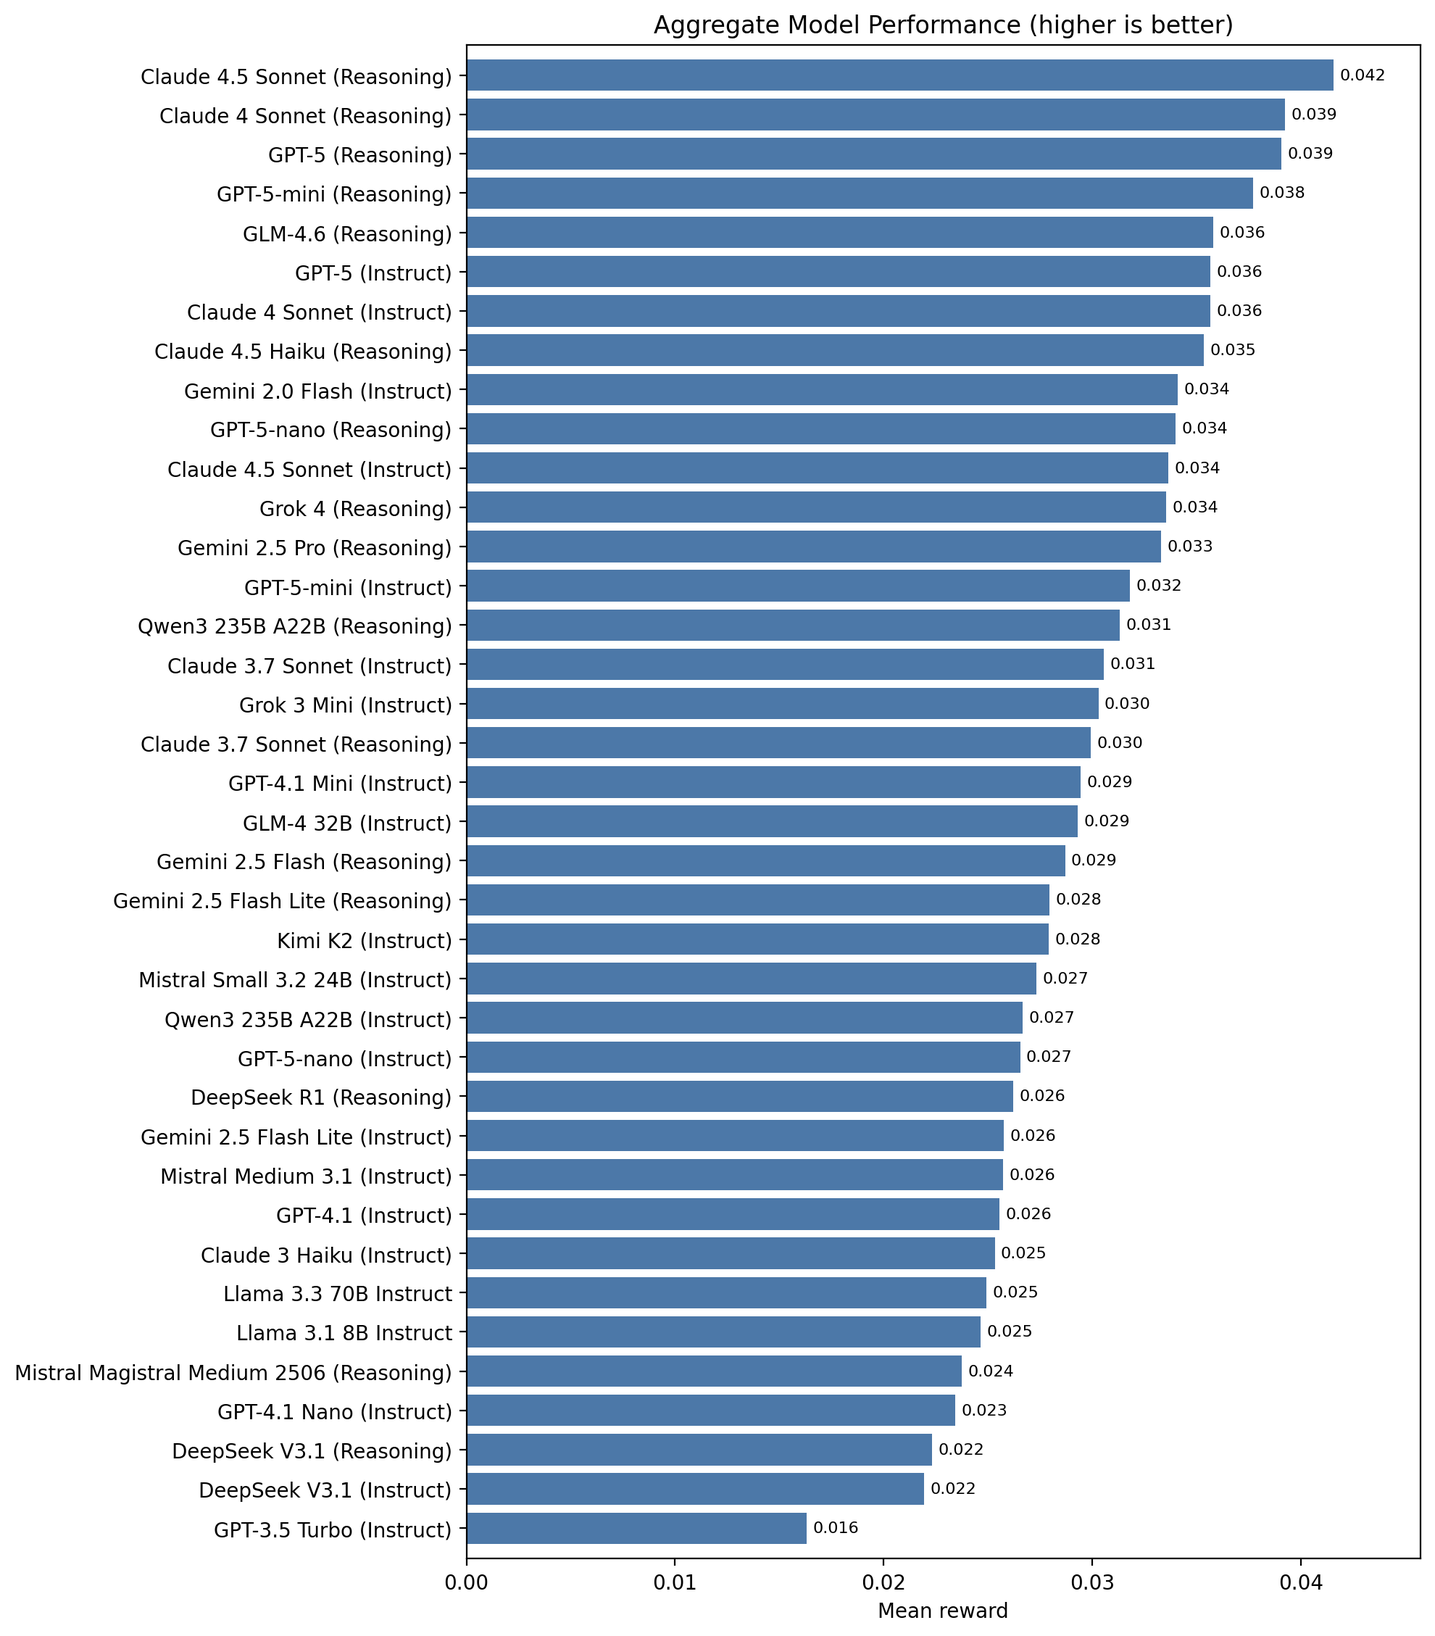
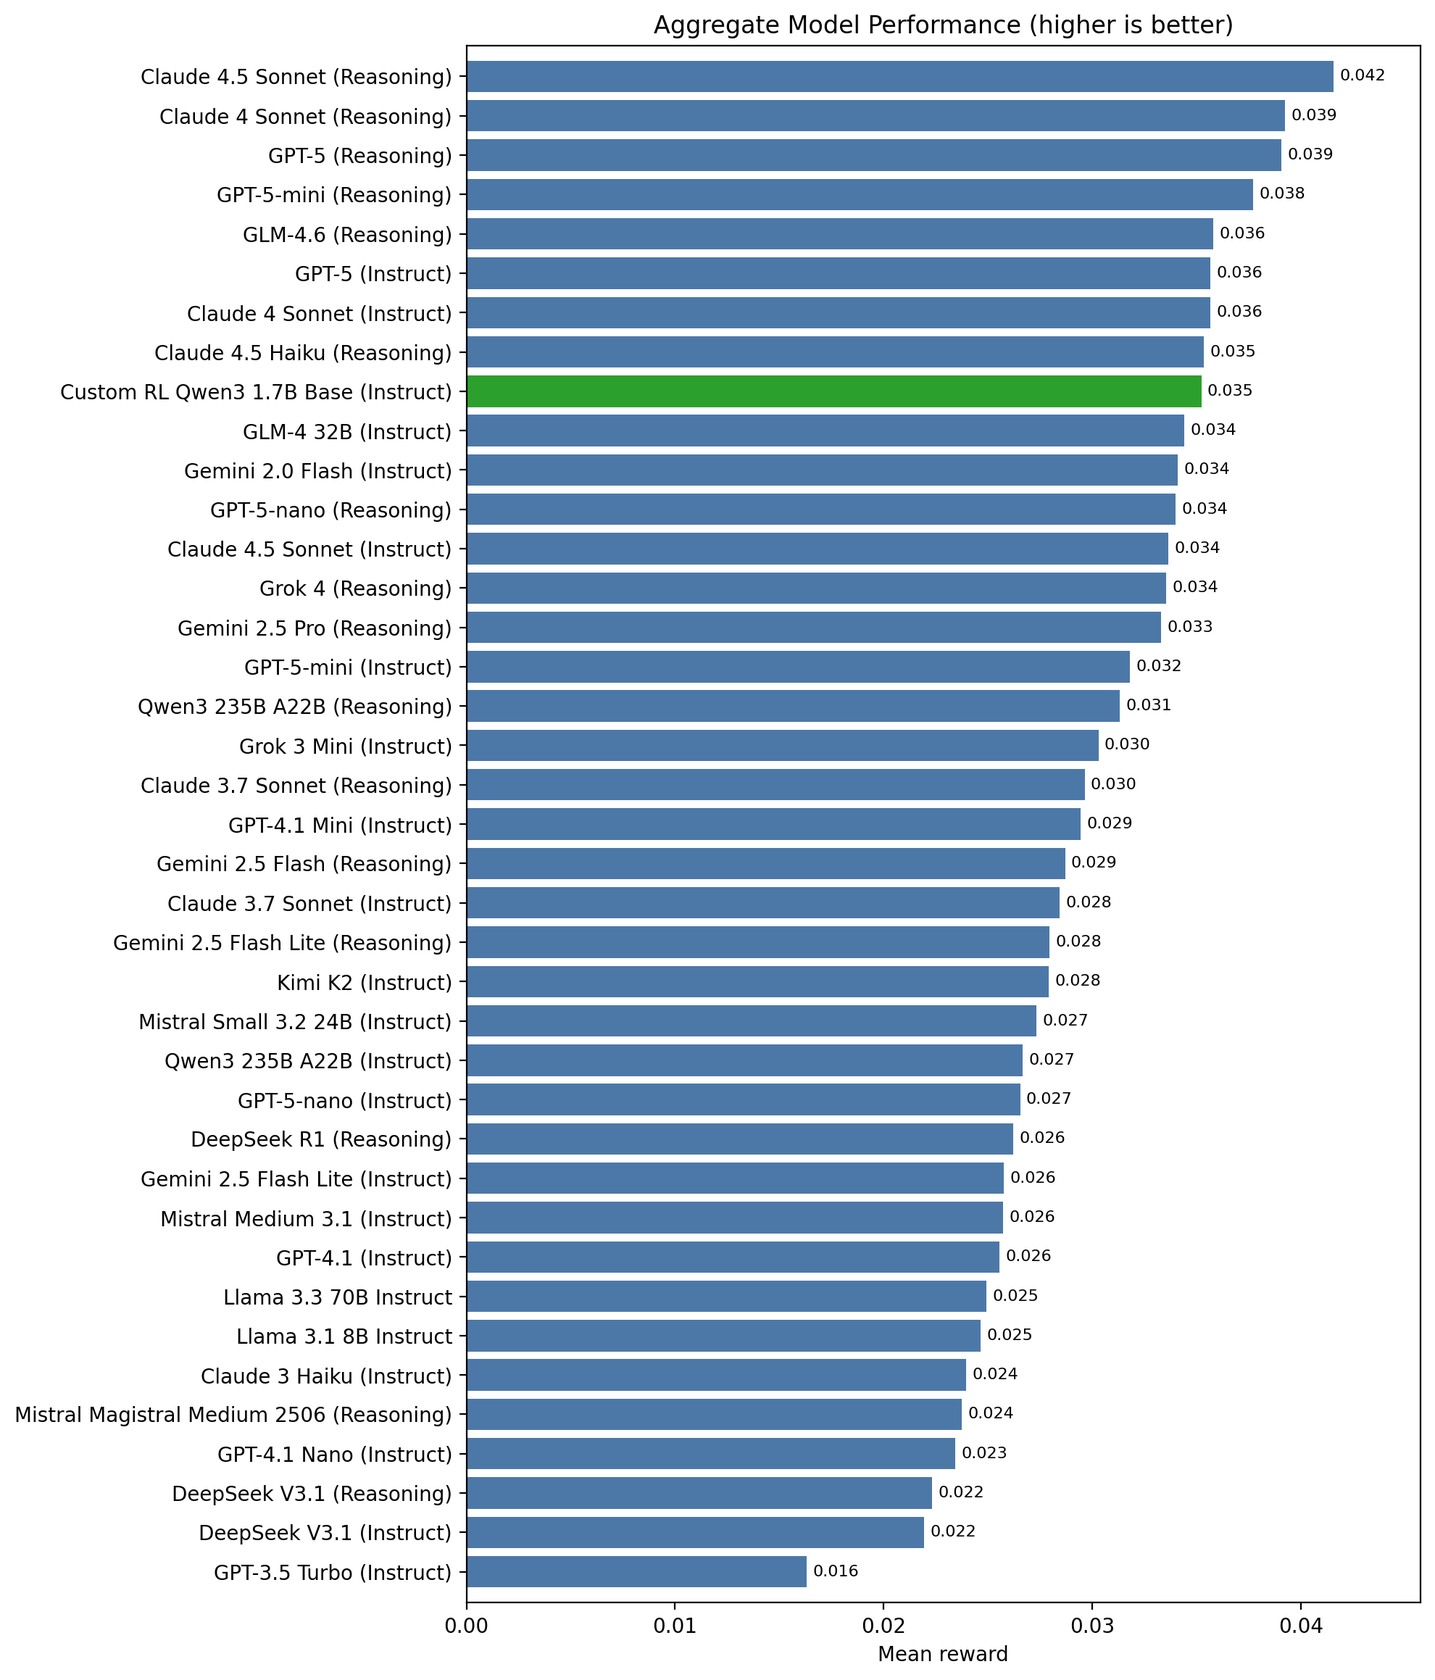
Update results with custom RL'd model

diff --git a/src/benchmark_models.py b/src/benchmark_models.py
@@ -5,15 +5,17 @@ import hashlib
 import statistics
 from collections import defaultdict
 from dataclasses import dataclass
+from functools import cache
 from pathlib import Path
-from typing import Any, Iterator, Literal, cast
+from typing import Iterator, Literal, cast
 
 import httpx
 import matplotlib.pyplot as plt
 import torch
-from pydantic import BaseModel, BeforeValidator, Field
+from peft import PeftModel
+from pydantic import BaseModel, BeforeValidator, Field, model_validator
 from pydantic_settings import BaseSettings, CliApp
-from transformers import AutoModelForCausalLM, AutoTokenizer, PreTrainedModel, PreTrainedTokenizer
+from transformers import AutoModelForCausalLM, AutoTokenizer, GenerationMixin, PreTrainedModel, PreTrainedTokenizer
 from typing_extensions import Annotated
 
 from client import client_config
@@ -33,105 +35,156 @@ CONTEXT_EPS = 500
 MODEL_EVAL_MIN_PASS_RATE = 0.8
 
 
-@dataclass(frozen=True)
-class ModelSpec:
+class LocalModel(BaseModel):
+    id: str
+    type: Literal["local"] = "local"
+
+
+class RemoteModel(BaseModel):
+    id: str
+    type: Literal["remote"] = "remote"
+
+
+class ModelSpec(BaseModel):
     display_name: str
-    model_id: str
+    model_id: RemoteModel | LocalModel = Field(discriminator="type")
     reasoning: Literal["minimal", "low", "medium", "high"] | None = None
     max_output_tokens: int = 2048
     unique_key: str = ""
 
     @property
     def spec_id(self) -> str:
-        return f"{self.model_id}::{self.unique_key}" if self.unique_key else self.model_id
+        return f"{self.model_id.id}::{self.unique_key}" if self.unique_key else self.model_id.id
 
     @property
     def path_safe_spec_id(self) -> str:
         return self.spec_id.replace("/", "__").replace(":", "_")
 
+    # TODO: remove this parser, it's only to handle non-discriminated model IDs in the cache to save money
+    @model_validator(mode="before")
+    @classmethod
+    def validate_model_id(cls, data: dict):
+        model_id = data.get("model_id")
+        if isinstance(model_id, str):
+            data = {**data, "model_id": {"id": model_id, "type": "remote"}}
+        return data
+
 
 MODEL_SPECS: list[ModelSpec] = [
     # OpenAI
-    ModelSpec("GPT-5 (Reasoning)", model_id="openai/gpt-5", unique_key="reasoning", reasoning="medium"),
-    ModelSpec("GPT-5 (Instruct)", model_id="openai/gpt-5", unique_key="instruct", reasoning="minimal"),
-    ModelSpec("GPT-5-mini (Reasoning)", model_id="openai/gpt-5-mini", unique_key="reasoning", reasoning="medium"),
-    ModelSpec("GPT-5-mini (Instruct)", model_id="openai/gpt-5-mini", unique_key="instruct", reasoning="minimal"),
-    ModelSpec("GPT-5-nano (Reasoning)", model_id="openai/gpt-5-nano", unique_key="reasoning", reasoning="medium"),
-    ModelSpec("GPT-5-nano (Instruct)", model_id="openai/gpt-5-nano", unique_key="instruct", reasoning="minimal"),
-    ModelSpec("GPT-4.1 (Instruct)", model_id="openai/gpt-4.1"),
-    ModelSpec("GPT-4.1 Mini (Instruct)", model_id="openai/gpt-4.1-mini"),
-    ModelSpec("GPT-4.1 Nano (Instruct)", model_id="openai/gpt-4.1-nano"),
-    ModelSpec("GPT-3.5 Turbo (Instruct)", model_id="openai/gpt-3.5-turbo"),
+    ModelSpec(display_name="GPT-5 (Reasoning)", model_id=RemoteModel(id="openai/gpt-5"), unique_key="reasoning", reasoning="medium"),
+    ModelSpec(display_name="GPT-5 (Instruct)", model_id=RemoteModel(id="openai/gpt-5"), unique_key="instruct", reasoning="minimal"),
+    ModelSpec(
+        display_name="GPT-5-mini (Reasoning)", model_id=RemoteModel(id="openai/gpt-5-mini"), unique_key="reasoning", reasoning="medium"
+    ),
+    ModelSpec(
+        display_name="GPT-5-mini (Instruct)", model_id=RemoteModel(id="openai/gpt-5-mini"), unique_key="instruct", reasoning="minimal"
+    ),
+    ModelSpec(
+        display_name="GPT-5-nano (Reasoning)", model_id=RemoteModel(id="openai/gpt-5-nano"), unique_key="reasoning", reasoning="medium"
+    ),
+    ModelSpec(
+        display_name="GPT-5-nano (Instruct)", model_id=RemoteModel(id="openai/gpt-5-nano"), unique_key="instruct", reasoning="minimal"
+    ),
+    ModelSpec(display_name="GPT-4.1 (Instruct)", model_id=RemoteModel(id="openai/gpt-4.1")),
+    ModelSpec(display_name="GPT-4.1 Mini (Instruct)", model_id=RemoteModel(id="openai/gpt-4.1-mini")),
+    ModelSpec(display_name="GPT-4.1 Nano (Instruct)", model_id=RemoteModel(id="openai/gpt-4.1-nano")),
+    ModelSpec(display_name="GPT-3.5 Turbo (Instruct)", model_id=RemoteModel(id="openai/gpt-3.5-turbo")),
     # Anthropic
-    ModelSpec("Claude 4.5 Sonnet (Reasoning)", model_id="anthropic/claude-sonnet-4.5", unique_key="reasoning", reasoning="medium"),
-    ModelSpec("Claude 4.5 Sonnet (Instruct)", model_id="anthropic/claude-sonnet-4.5", unique_key="instruct"),
-    ModelSpec("Claude 4.5 Haiku (Reasoning)", model_id="anthropic/claude-haiku-4.5", unique_key="reasoning", reasoning="medium"),
-    ModelSpec("Claude 4.5 Haiku (Instruct)", model_id="anthropic/claude-haiku-4.5", unique_key="instruct"),
-    ModelSpec("Claude 4 Sonnet (Reasoning)", model_id="anthropic/claude-sonnet-4", unique_key="reasoning", reasoning="medium"),
-    ModelSpec("Claude 4 Sonnet (Instruct)", model_id="anthropic/claude-sonnet-4", unique_key="instruct"),
-    ModelSpec("Claude 3.7 Sonnet (Reasoning)", model_id="anthropic/claude-3-7-sonnet:thinking"),
-    ModelSpec("Claude 3.7 Sonnet (Instruct)", model_id="anthropic/claude-3-7-sonnet"),
-    ModelSpec("Claude 3 Haiku (Instruct)", model_id="anthropic/claude-3-haiku"),
+    ModelSpec(
+        display_name="Claude 4.5 Sonnet (Reasoning)",
+        model_id=RemoteModel(id="anthropic/claude-sonnet-4.5"),
+        unique_key="reasoning",
+        reasoning="medium",
+    ),
+    ModelSpec(display_name="Claude 4.5 Sonnet (Instruct)", model_id=RemoteModel(id="anthropic/claude-sonnet-4.5"), unique_key="instruct"),
+    ModelSpec(
+        display_name="Claude 4.5 Haiku (Reasoning)",
+        model_id=RemoteModel(id="anthropic/claude-haiku-4.5"),
+        unique_key="reasoning",
+        reasoning="medium",
+    ),
+    ModelSpec(display_name="Claude 4.5 Haiku (Instruct)", model_id=RemoteModel(id="anthropic/claude-haiku-4.5"), unique_key="instruct"),
+    ModelSpec(
+        display_name="Claude 4 Sonnet (Reasoning)",
+        model_id=RemoteModel(id="anthropic/claude-sonnet-4"),
+        unique_key="reasoning",
+        reasoning="medium",
+    ),
+    ModelSpec(display_name="Claude 4 Sonnet (Instruct)", model_id=RemoteModel(id="anthropic/claude-sonnet-4"), unique_key="instruct"),
+    ModelSpec(
+        display_name="Claude 3.7 Sonnet (Reasoning)",
+        model_id=RemoteModel(id="anthropic/claude-3-7-sonnet"),
+        unique_key="reasoning",
+        reasoning="medium",
+    ),
+    ModelSpec(display_name="Claude 3.7 Sonnet (Instruct)", model_id=RemoteModel(id="anthropic/claude-3-7-sonnet"), unique_key="instruct"),
+    ModelSpec(display_name="Claude 3 Haiku (Instruct)", model_id=RemoteModel(id="anthropic/claude-3-haiku"), unique_key="instruct"),
     # Gemini
-    ModelSpec("Gemini 2.5 Pro (Reasoning)", "google/gemini-2.5-pro", reasoning="medium"),
+    ModelSpec(display_name="Gemini 2.5 Pro (Reasoning)", model_id=RemoteModel(id="google/gemini-2.5-pro"), reasoning="medium"),
     ModelSpec(
-        "Gemini 2.5 Flash (Reasoning)",
-        model_id="google/gemini-2.5-flash",
+        display_name="Gemini 2.5 Flash (Reasoning)",
+        model_id=RemoteModel(id="google/gemini-2.5-flash"),
         reasoning="medium",
         unique_key="reasoning",
     ),
     ModelSpec(
-        "Gemini 2.5 Flash (Instruct)",
-        model_id="google/gemini-2.5-flash",
+        display_name="Gemini 2.5 Flash (Instruct)",
+        model_id=RemoteModel(id="google/gemini-2.5-flash"),
         unique_key="instruct",
     ),
     ModelSpec(
-        "Gemini 2.5 Flash Lite (Reasoning)",
-        model_id="google/gemini-2.5-flash-lite",
+        display_name="Gemini 2.5 Flash Lite (Reasoning)",
+        model_id=RemoteModel(id="google/gemini-2.5-flash-lite"),
         reasoning="medium",
         unique_key="reasoning",
     ),
     ModelSpec(
-        "Gemini 2.5 Flash Lite (Instruct)",
-        model_id="google/gemini-2.5-flash-lite",
+        display_name="Gemini 2.5 Flash Lite (Instruct)",
+        model_id=RemoteModel(id="google/gemini-2.5-flash-lite"),
         unique_key="instruct",
     ),
-    ModelSpec("Gemini 2.0 Flash (Instruct)", model_id="google/gemini-2.0-flash-001"),
+    ModelSpec(display_name="Gemini 2.0 Flash (Instruct)", model_id=RemoteModel(id="google/gemini-2.0-flash-001")),
     # Deepseek
-    ModelSpec("DeepSeek R1 (Reasoning)", model_id="deepseek/deepseek-r1"),
+    ModelSpec(display_name="DeepSeek R1 (Reasoning)", model_id=RemoteModel(id="deepseek/deepseek-r1")),
     ModelSpec(
-        "DeepSeek V3.1 (Reasoning)",
-        model_id="deepseek/deepseek-chat-v3.1",
+        display_name="DeepSeek V3.1 (Reasoning)",
+        model_id=RemoteModel(id="deepseek/deepseek-chat-v3.1"),
         reasoning="medium",
         unique_key="reasoning",
     ),
     ModelSpec(
-        "DeepSeek V3.1 (Instruct)",
-        model_id="deepseek/deepseek-chat-v3.1",
+        display_name="DeepSeek V3.1 (Instruct)",
+        model_id=RemoteModel(id="deepseek/deepseek-chat-v3.1"),
         reasoning="medium",
         unique_key="instruct",
     ),
     # Qwen
-    ModelSpec("Qwen3 235B A22B (Reasoning)", model_id="qwen/qwen3-235b-a22b-thinking-2507"),
-    ModelSpec("Qwen3 235B A22B (Instruct)", model_id="qwen/qwen3-235b-a22b-2507"),
-    ModelSpec("Qwen3 30B A3B (Reasoning)", model_id="qwen/qwen3-30b-a3b-thinking-2507"),
-    ModelSpec("Qwen3 30B A3B (Instruct)", model_id="qwen/qwen3-30b-a3b-instruct-2507"),
+    ModelSpec(display_name="Qwen3 235B A22B (Reasoning)", model_id=RemoteModel(id="qwen/qwen3-235b-a22b-thinking-2507")),
+    ModelSpec(display_name="Qwen3 235B A22B (Instruct)", model_id=RemoteModel(id="qwen/qwen3-235b-a22b-2507")),
+    ModelSpec(display_name="Qwen3 30B A3B (Reasoning)", model_id=RemoteModel(id="qwen/qwen3-30b-a3b-thinking-2507")),
+    ModelSpec(display_name="Qwen3 30B A3B (Instruct)", model_id=RemoteModel(id="qwen/qwen3-30b-a3b-instruct-2507")),
     # GLM
-    ModelSpec("GLM-4.6 (Reasoning)", model_id="z-ai/glm-4.6", reasoning="medium"),
-    ModelSpec("GLM-4 32B (Instruct)", model_id="z-ai/glm-4-32b"),
+    ModelSpec(display_name="GLM-4.6 (Reasoning)", model_id=RemoteModel(id="z-ai/glm-4.6"), reasoning="medium"),
+    ModelSpec(display_name="GLM-4 32B (Instruct)", model_id=RemoteModel(id="z-ai/glm-4-32b"), unique_key="instruct"),
     # Kimi
-    ModelSpec("Kimi K2 (Instruct)", model_id="moonshotai/kimi-k2-0905"),
+    ModelSpec(display_name="Kimi K2 (Instruct)", model_id=RemoteModel(id="moonshotai/kimi-k2-0905")),
     # LLaMA
-    ModelSpec("Llama 3.3 70B Instruct", model_id="meta-llama/llama-3.3-70b-instruct"),
-    ModelSpec("Llama 3.1 8B Instruct", model_id="meta-llama/llama-3.1-8b-instruct"),
+    ModelSpec(display_name="Llama 3.3 70B Instruct", model_id=RemoteModel(id="meta-llama/llama-3.3-70b-instruct")),
+    ModelSpec(display_name="Llama 3.1 8B Instruct", model_id=RemoteModel(id="meta-llama/llama-3.1-8b-instruct")),
     # Grok
-    ModelSpec("Grok 4 (Reasoning)", model_id="x-ai/grok-4"),
-    ModelSpec("Grok 4 Fast (Instruct)", model_id="x-ai/grok-4-fast"),
-    ModelSpec("Grok 3 Mini (Instruct)", model_id="x-ai/grok-3-mini"),
+    ModelSpec(display_name="Grok 4 (Reasoning)", model_id=RemoteModel(id="x-ai/grok-4")),
+    ModelSpec(display_name="Grok 4 Fast (Instruct)", model_id=RemoteModel(id="x-ai/grok-4-fast")),
+    ModelSpec(display_name="Grok 3 Mini (Instruct)", model_id=RemoteModel(id="x-ai/grok-3-mini")),
     # Mistral
-    ModelSpec("Mistral Magistral Medium 2506 (Reasoning)", model_id="mistralai/magistral-medium-2506"),
-    ModelSpec("Mistral Medium 3.1 (Instruct)", model_id="mistralai/mistral-medium-3.1"),
-    ModelSpec("Mistral Small 3.2 24B (Instruct)", model_id="mistralai/mistral-small-3.2-24b-instruct"),
+    ModelSpec(display_name="Mistral Magistral Medium 2506 (Reasoning)", model_id=RemoteModel(id="mistralai/magistral-medium-2506")),
+    ModelSpec(display_name="Mistral Medium 3.1 (Instruct)", model_id=RemoteModel(id="mistralai/mistral-medium-3.1")),
+    ModelSpec(display_name="Mistral Small 3.2 24B (Instruct)", model_id=RemoteModel(id="mistralai/mistral-small-3.2-24b-instruct")),
+    # Local LoRA
+    ModelSpec(
+        display_name="Custom RL Qwen3 1.7B Base (Instruct)",
+        model_id=LocalModel(id="qwen3_1.7B_base_rl"),
+    ),
 ]
 
 
@@ -141,7 +194,7 @@ def parse_summary_budget(summary_budget_input: str | SummaryBudget) -> SummaryBu
     return SummaryBudget[summary_budget_input]
 
 
-class BenchmarkConfig(BaseSettings, cli_parse_args=True, cli_kebab_case=True):
+class BenchmarkConfig(BaseSettings, cli_parse_args=True, cli_kebab_case=True, frozen=True):
     limit: int = Field(description="Maximum number of documents to process", default=8, gt=0)
     summary_budget: Annotated[SummaryBudget, BeforeValidator(parse_summary_budget)] = Field(
         description="Summary budget", default=SummaryBudget.LARGE
@@ -191,28 +244,68 @@ def detect_device() -> str:
     return "cpu"
 
 
-def load_reference_model(model_name: str) -> tuple[PreTrainedTokenizer, PreTrainedModel]:
-    device = detect_device()
-    tokenizer = AutoTokenizer.from_pretrained(model_name, padding_side="left", trust_remote_code=True)
+# One day python type hints will include type intersections and I can delete this
+class BaseModelWithGenerate(PreTrainedModel, GenerationMixin):
+    pass
+
+
+def load_model(config: BenchmarkConfig, lora_model_name: str | None = None) -> tuple[PreTrainedTokenizer, BaseModelWithGenerate]:
+    tokenizer = AutoTokenizer.from_pretrained(config.reference_model, padding_side="left", trust_remote_code=True)
     if tokenizer.pad_token is None:
         tokenizer.pad_token = tokenizer.eos_token
 
-    model_kwargs: dict[str, Any] = {}
-    if device == "cuda":
-        model_kwargs["device_map"] = "auto"
-        model_kwargs["attn_implementation"] = "flash_attention_2"
+    base_model = AutoModelForCausalLM.from_pretrained(
+        config.reference_model,
+        dtype=torch.bfloat16,
+        device_map="auto",
+        attn_implementation="flash_attention_2",
+        trust_remote_code=True,
+    )
 
-    base_model = AutoModelForCausalLM.from_pretrained(model_name, dtype=torch.bfloat16, trust_remote_code=True, **model_kwargs)
-    if device != "cuda":
-        base_model.to(device)
-    base_model.eval()
-    return tokenizer, base_model
+    if lora_model_name is not None:
+        print(f"Loading trained model from {lora_model_name}")
+        model = PeftModel.from_pretrained(base_model, f"models/{lora_model_name}")
+    else:
+        model = base_model
+    model.eval()
+    model.forward = torch.compile(model.forward, dynamic=True)
+    return tokenizer, cast(BaseModelWithGenerate, base_model)
 
 
-async def generate_summary(
+@cache
+def get_local_model(config: BenchmarkConfig, lora_model_name: str | None = None) -> tuple[PreTrainedTokenizer, BaseModelWithGenerate]:
+    return load_model(config, lora_model_name)
+
+
+# TODO: gather input jobs into batches before inference, to take more advantage of compute capacity
+async def generate_local_summary(spec: ModelSpec, document: DocumentRecord, config: BenchmarkConfig, sample_index: int) -> SummaryRecord:
+    tokenizer, model = get_local_model(config, spec.model_id.id)
+    prompt = format_context_for_training(document.text, config.summary_budget, is_base_model=True)
+
+    inputs = tokenizer(prompt, return_tensors="pt", padding=True, padding_side="left", truncation=True)
+    inputs = inputs.to(model.device)
+
+    with torch.inference_mode():
+        outputs = model.generate(
+            **inputs,  # type: ignore
+            do_sample=True,
+            temperature=1.0,
+            top_p=1.0,
+            max_new_tokens=512,
+            pad_token_id=tokenizer.pad_token_id,
+        )
+
+    prompt_and_generated_text = tokenizer.decode(outputs[0], skip_special_tokens=True)
+    generated_text = "<summary>" + prompt_and_generated_text[len(prompt) :]
+    summary = get_summary_from_generation(generated_text, is_base_model=False)
+
+    return SummaryRecord(model_spec=spec, document_id=document.id, summary=summary, sample_index=sample_index, raw_response=generated_text)
+
+
+async def generate_remote_summary(
     spec: ModelSpec,
     document: DocumentRecord,
-    summary_budget: SummaryBudget,
+    config: BenchmarkConfig,
     max_retries: int,
     sample_index: int,
 ) -> SummaryRecord:
@@ -220,7 +313,7 @@ async def generate_summary(
     if spec.reasoning is not None:
         extra_args["reasoning"] = {"effort": spec.reasoning}
 
-    prompt = format_context_for_training(document.text, summary_budget, is_base_model=False)
+    prompt = format_context_for_training(document.text, config.summary_budget, is_base_model=False)
     backoff = 1.0
     for attempt in range(max_retries):
         try:
@@ -229,7 +322,7 @@ async def generate_summary(
                     url=f"{client_config.base_url}/chat/completions",
                     headers={"Authorization": f"Bearer {client_config.openrouter_key}"},
                     json={
-                        "model": spec.model_id,
+                        "model": spec.model_id.id,
                         "messages": [{"role": "user", "content": prompt}],
                         "temperature": 1.0,
                         "top_p": 1.0,
@@ -354,6 +447,7 @@ def aggregate_results(config: BenchmarkConfig) -> None:
             )
 
     # Plot results
+    spec_id_to_spec = {spec.spec_id: spec for spec in MODEL_SPECS}
     plot_spec_ids = [
         spec_id for spec_id in spec_ids_sorted_by_reward if spec_id != TRUNCATED_DOC_SPEC.spec_id and spec_id in spec_ids_at_high_coverage
     ]
@@ -366,7 +460,10 @@ def aggregate_results(config: BenchmarkConfig) -> None:
 
     height = 0.3 * len(plot_spec_ids)
     fig, ax = plt.subplots(figsize=(10, height))
-    bars = ax.barh(plot_labels, plot_rewards, color="#4c78a8")
+
+    # Highlight the custom RL'd model in green
+    bar_colors = ["#2ca02c" if spec_id_to_spec[spec_id].model_id.type == "local" else "#4c78a8" for spec_id in plot_spec_ids]
+    bars = ax.barh(plot_labels, plot_rewards, color=bar_colors)
     ax.margins(x=0.1, y=0.01)
     ax.invert_yaxis()  # best model appears at the top
     ax.set_xlabel("Mean reward")
@@ -404,13 +501,20 @@ async def summarization_worker(
             job_queue.task_done()
             continue
 
-        result = await generate_summary(spec, document, config.summary_budget, config.max_retries, sample_index)
-        store[cache_key] = result
+        try:
+            match spec.model_id:
+                case LocalModel():
+                    result = await generate_local_summary(spec, document, config, sample_index)
+                case RemoteModel():
+                    result = await generate_remote_summary(spec, document, config, config.max_retries, sample_index)
+            store[cache_key] = result
+        except Exception as e:
+            raise e
+        finally:
+            job_queue.task_done()
 
-        job_queue.task_done()
 
-
-TRUNCATED_DOC_SPEC = ModelSpec("Truncated Document Baseline", "baseline/truncated-document")
+TRUNCATED_DOC_SPEC = ModelSpec(display_name="Truncated Document Baseline", model_id=LocalModel(id="baseline/truncated-document"))
 
 
 async def benchmark_models(config: BenchmarkConfig) -> None:
@@ -419,7 +523,7 @@ async def benchmark_models(config: BenchmarkConfig) -> None:
     print(f"Preparing to evaluate up to {config.limit} documents.")
     print(f"Benchmarking {len(MODEL_SPECS)} model(s) with summary budget {summary_budget}.")
 
-    tokenizer, reference_model = load_reference_model(config.reference_model)
+    tokenizer, reference_model = load_model(config)
 
     # Key structure: (spec_id, summary_budget, doc_id, sample_index)
     summary_store = PersistentKVStore(SummaryRecord, config.cache_dir / "summary")
